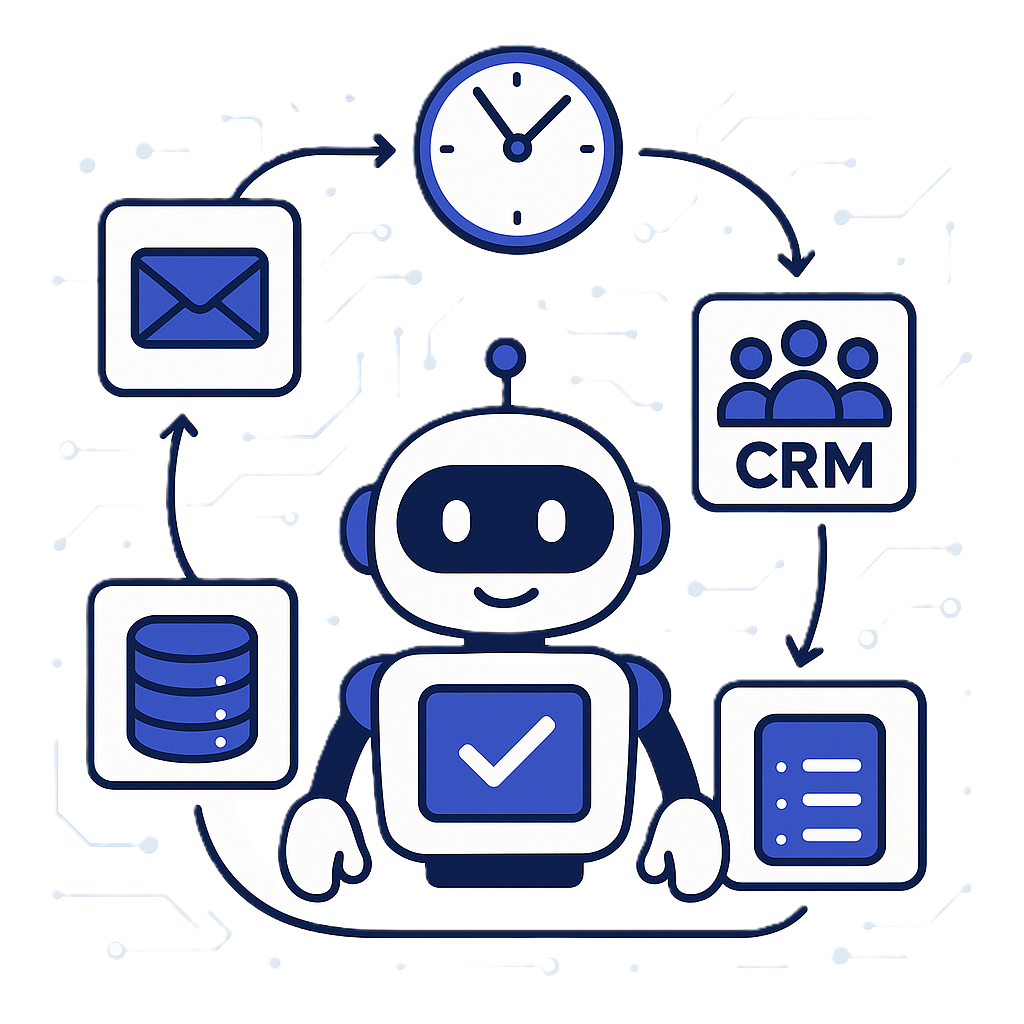
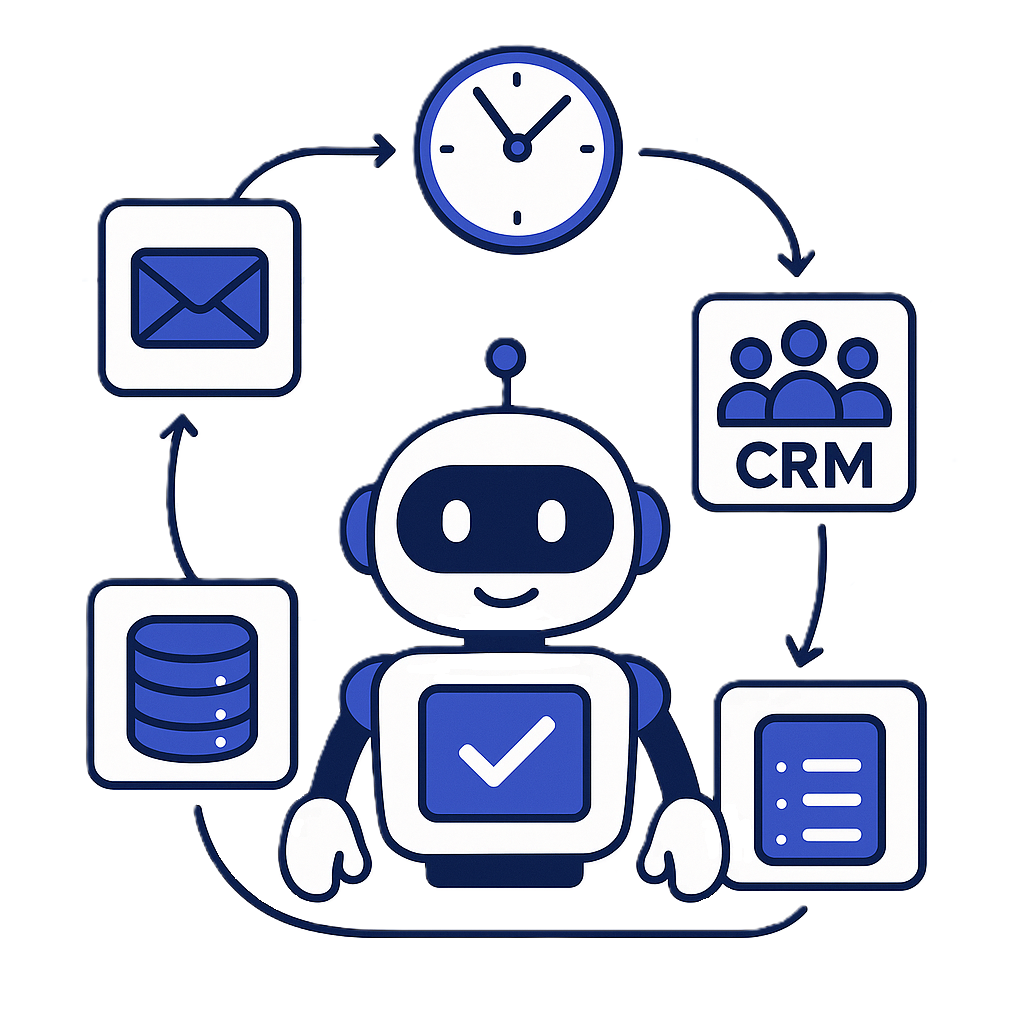
Fixed images, agents and mobile version

diff --git a/src/app/features/navigation/components/navigation/navigation.html b/src/app/features/navigation/components/navigation/navigation.html
@@ -1,5 +1,6 @@
-<nav class="fixed w-full z-50 bg-opacity-80 backdrop-blur-sm bg-white border-b border-border-purple">
-  <div class="max-w-7xl mx-auto px-4 sm:px-6 lg:px-8">
+<nav class=" w-full z-50 bg-opacity-80 backdrop-blur-sm bg-white border-b border-border-purple">
+  <!-- Remplacez le conteneur max-w-7xl par un conteneur plus adapté mobile -->
+  <div class="w-full px-4">
     <div class="flex items-center justify-between h-16">
       <div class="flex items-center">
         <div class="h-10 w-10 mr-3 bg-gradient-to-r from-primary-blue to-primary-purple rounded-lg flex items-center justify-center">
@@ -7,6 +8,8 @@
         </div>
         <span class="text-2xl font-bold gradient-text">Neonys</span>
       </div>
+      
+      <!-- Menu desktop - caché sur mobile -->
       <div class="hidden md:flex items-center space-x-4">
         <div class="flex items-baseline space-x-4 text-text-gray">
           <a href="#home" class="hover:text-primary-blue nav-link" (click)="scrollToSection('home')">{{ getTranslation('nav.home') }}</a>
@@ -17,7 +20,9 @@
         </div>
         <app-language-selector class="ml-6"></app-language-selector>
       </div>
-      <div class="md:hidden">
+
+      <!-- Bouton menu mobile -->
+      <div class="sm:hidden">
         <button class="text-text-gray hover:text-primary-blue focus:outline-none" (click)="toggleMobileMenu()">
           <svg class="h-6 w-6" fill="none" viewBox="0 0 24 24" stroke="currentColor">
             <path stroke-linecap="round" stroke-linejoin="round" stroke-width="2" d="M4 6h16M4 12h16M4 18h16"></path>
@@ -25,10 +30,10 @@
         </button>
       </div>
     </div>
-    
-    <!-- Mobile menu -->
-    <div class="md:hidden" [class.show]="isMobileMenuOpen">
-      <div class="px-2 pt-2 pb-3 space-y-1 sm:px-3 bg-white border-t border-border-purple">
+
+    <!-- Mobile menu - CORRIGÉ -->
+    <div class="sm:hidden transition-all duration-300 ease-in-out" [class.hidden]="!isMobileMenuOpen" [class.block]="isMobileMenuOpen">
+      <div class="px-2 pt-2 pb-3 space-y-1 bg-white border-t border-border-purple">
         <a href="#home" class="block px-3 py-2 text-text-gray hover:text-primary-blue" (click)="scrollToSection('home'); toggleMobileMenu()">{{ getTranslation('nav.home') }}</a>
         <a href="#about" class="block px-3 py-2 text-text-gray hover:text-primary-blue" (click)="scrollToSection('about'); toggleMobileMenu()">{{ getTranslation('nav.about') }}</a>
         <a href="#agents" class="block px-3 py-2 text-text-gray hover:text-primary-blue" (click)="scrollToSection('agents'); toggleMobileMenu()">{{ getTranslation('nav.agents') }}</a>
@@ -38,4 +43,3 @@
     </div>
   </div>
 </nav>
-

diff --git a/src/app/shared/components/agent-card/agent-card.html b/src/app/shared/components/agent-card/agent-card.html
@@ -9,21 +9,17 @@
         <p class="font-medium" [style.color]="agent.color">{{ getTranslation(agent.titleKey) }}</p>
       </div>
     </div>
-    
+
     <div class="mb-6 flex-grow">
-      <img [src]="agent.image" [alt]="agent.name" class="w-full h-48 object-contain character-img">
+      <img [src]="agent.image" [alt]="agent.name" class="w-full h-64 object-contain character-img">
     </div>
-    
+
     <h4 class="text-lg font-semibold mb-2">{{ getTranslation(agent.subtitleKey) }}</h4>
     <p class="mb-4">{{ getTranslation(agent.descKey) }}</p>
-    
-    <div class="flex justify-between items-center mt-auto">
-      <span class="text-sm" [style.color]="agent.color">{{agent.workflow}}</span>
-      <button 
-        class="px-4 py-2 rounded text-white font-medium transition"
-        [style.background]="agent.color"
-        (click)="onGetAgent()"
-      >
+
+    <div class="flex justify-center items-center mt-auto">
+      <button class="px-4 py-2 rounded text-white font-medium transition" [style.background]="agent.color"
+        (click)="onGetAgent()">
         {{ getTranslation('agents.cta') }}
       </button>
     </div>

diff --git a/src/app/features/agents/components/agents/agents.html b/src/app/features/agents/components/agents/agents.html
@@ -8,6 +8,7 @@
     <div class="carousel">
       <button class="arrow left" (click)="prev()">‹</button>
       
+      
       <div class="track-container">
         <div class="track">
           <div class="card-wrapper" *ngFor="let agent of agents; let i = index" 

diff --git a/src/app/features/navigation/components/navigation/navigation.scss b/src/app/features/navigation/components/navigation/navigation.scss
@@ -36,8 +36,10 @@ section {
   overflow: hidden;
   opacity: 0;
   
+  
   &.show {
     max-height: 500px;
     opacity: 1;
   }
 }
+
